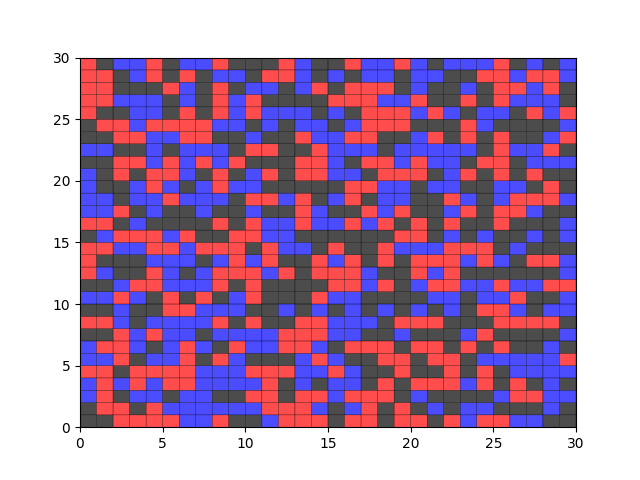
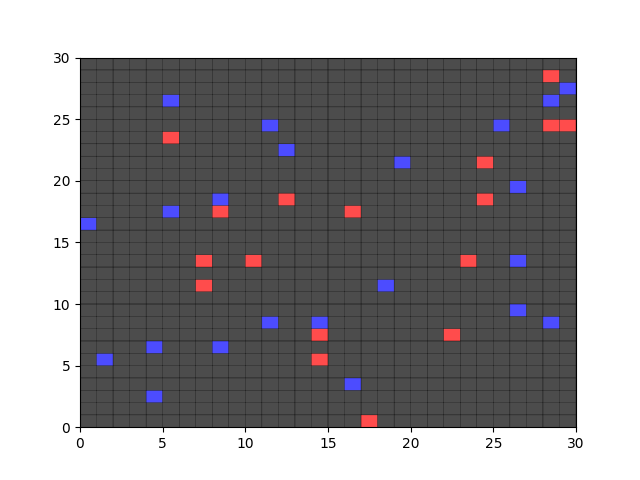
changed generation

diff --git a/main.py b/main.py
@@ -9,6 +9,9 @@ import moth
 
 class c_Grid:
     def __init__(self, grid:numpy.array, colorset:list=['#000000','#FF0000','#0000FF']):
+        # black = nothing
+        # blue = light
+        # red - moths
         self._Index = 0
         self._InitialState = grid
         self._CurrentState = self._InitialState
@@ -34,7 +37,7 @@ class c_Grid:
         self._Index += 1
         self.display(show_plot=True)
 
-MyGrid = c_Grid(numpy.random.randint(0,3,(30,30)))
+MyGrid = c_Grid(numpy.random.choice([0,1, 2],(30,30),p=[0.95, 0.025, 0.025]))
 
 MyGrid.display(show_plot=True)
 for i in range(5):
